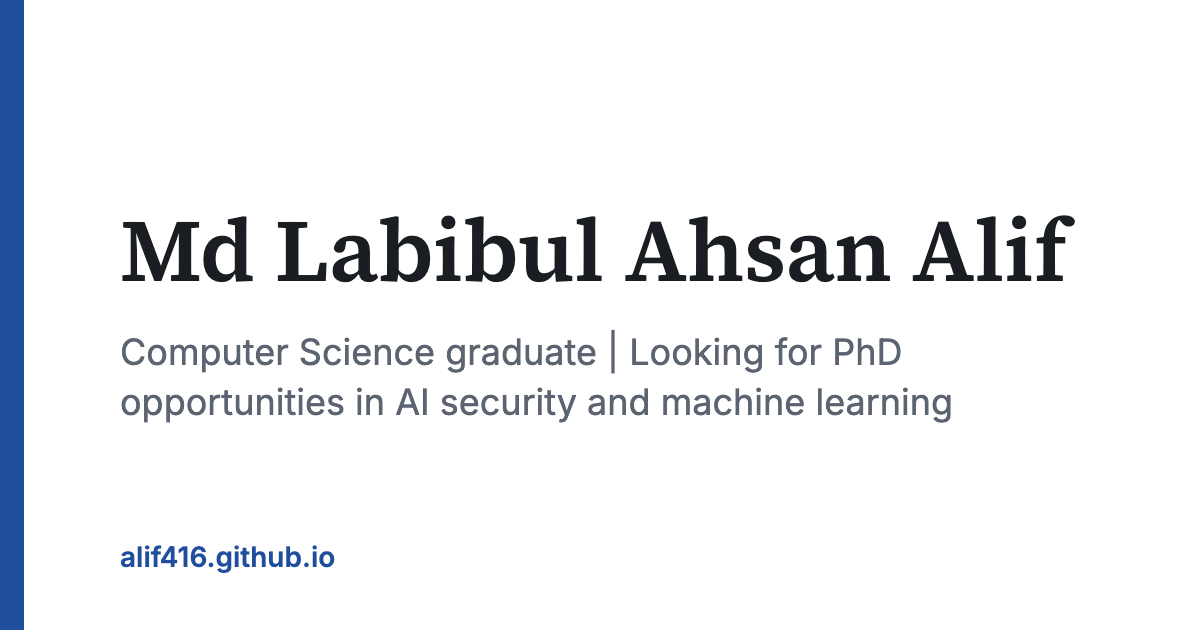
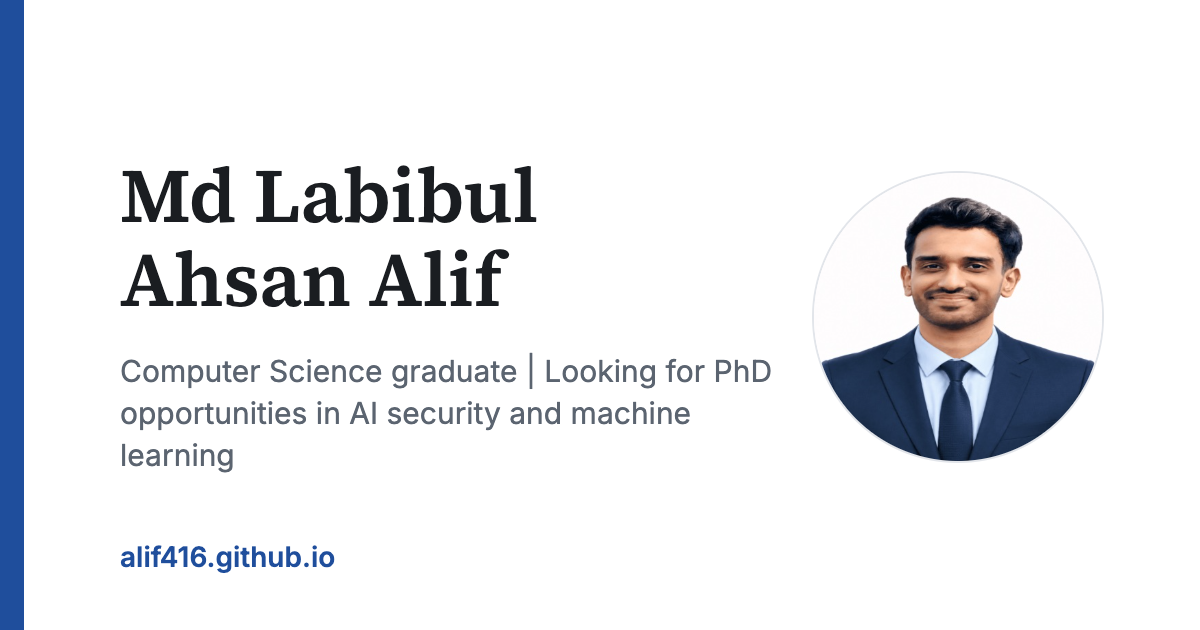
Add profile photo and a social card that includes it

Changed region(s): [[0.0925, 0.2413, 0.925, 0.754]]

diff --git a/design/social-card.html b/design/social-card.html
@@ -9,6 +9,8 @@
     3. Save it as public/social-card.png.
 
   The name and headline must match src/data/content.ts (person.name, person.headline).
+  The photo is public/photo.jpg. If there is no photo, delete the <img> line and the
+  padding-right change on .card to go back to the text-only card.
   The colors match the light theme in src/index.css.
 -->
 <html lang="en">
@@ -43,9 +45,21 @@
         justify-content: center;
         width: 1200px;
         height: 630px;
-        padding: 0 96px 0 120px;
+        padding: 0 420px 0 120px;
         background: #ffffff;
         overflow: hidden;
+      }
+
+      .photo {
+        position: absolute;
+        top: 50%;
+        right: 96px;
+        width: 288px;
+        height: 288px;
+        margin-top: -144px;
+        border: 2px solid #e2e5ea;
+        border-radius: 50%;
+        object-fit: cover;
       }
 
       .bar {
@@ -61,17 +75,16 @@
         margin: 0 0 28px;
         color: #1a1d21;
         font-family: 'Source Serif', Georgia, serif;
-        font-size: 88px;
+        font-size: 76px;
         font-weight: 600;
         line-height: 1.1;
       }
 
       .headline {
-        max-width: 960px;
         margin: 0;
         color: #5b6470;
         font-family: 'Inter', system-ui, sans-serif;
-        font-size: 36px;
+        font-size: 30px;
         line-height: 1.4;
       }
 
@@ -90,6 +103,7 @@
   <body>
     <div class="card">
       <div class="bar"></div>
+      <img class="photo" src="../public/photo.jpg" alt="" />
       <h1>Md Labibul Ahsan Alif</h1>
       <p class="headline">Computer Science graduate | Looking for PhD opportunities in AI security and machine learning</p>
       <p class="url">alif416.github.io</p>

diff --git a/src/data/content.ts b/src/data/content.ts
@@ -22,9 +22,12 @@ export const content: Content = {
     researchStatement:
       'I study how machine learning systems can be attacked and how to make them more trustworthy.',
     bio: "I'm Alif, a Computer Science graduate from BRAC University in Dhaka, Bangladesh. My research interests are AI security, adversarial machine learning, natural language processing, and federated learning. My undergraduate thesis, supervised by Mr. Moin Mostakim, looked at a remote patient monitoring system driven by federated learning. I'm now looking for PhD opportunities where I can keep working on trustworthy and secure machine learning.",
-    // TODO: add photo. Put the file at public/photo.jpg, then replace null with
-    // { src: '/photo.jpg', alt: 'Portrait of Md Labibul Ahsan Alif' }
-    photo: null,
+    // The photo is public/photo.jpg (420 x 420). To change it, replace that file, and
+    // regenerate public/social-card.png (see design/social-card.html).
+    photo: {
+      src: '/photo.jpg',
+      alt: 'Portrait of Md Labibul Ahsan Alif, smiling, in a dark blue suit and tie',
+    },
   },
 
   links: {
